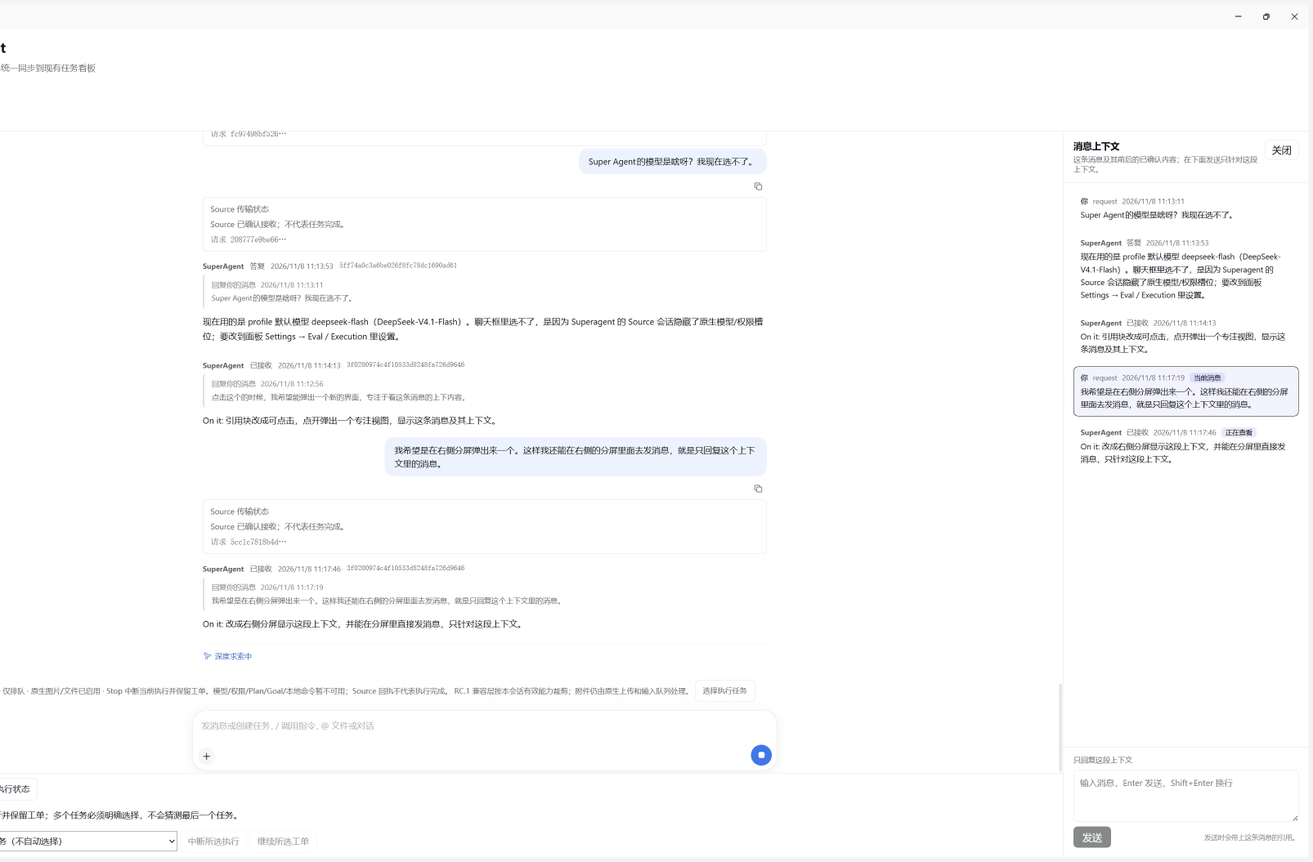
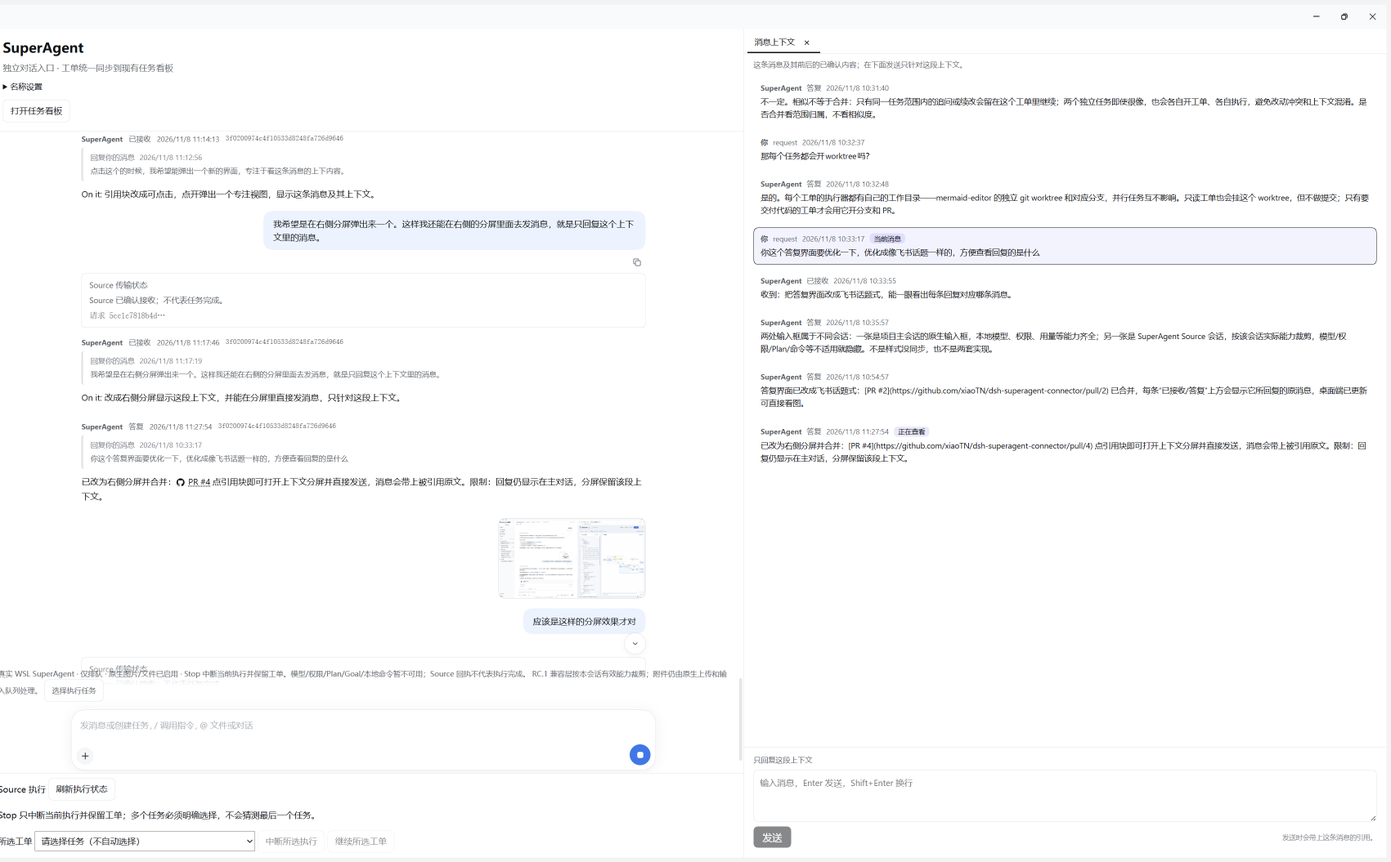
style: make the reply context a full-height resizable right split
Match the requested native right-column layout: the context pane now sits
at the SuperAgent panel level, spans the full content height beside the
header + conversation, has a sidebar-style tab strip and a draggable
(left-edge) and keyboard-resizable divider. The previous narrow in-panel
column is replaced.

Still an in-panel split: the DSH dockable right sidebar is bound to the
selected Session and cannot host the Source conversation's context while
the custom SuperAgent main panel is shown.

diff --git a/src/client.js b/src/client.js
@@ -63,7 +63,7 @@ window.__ModuleLoader__.load({
       var stopped = false;
       return function () { if (stopped) return; stopped = true; if (--identityOwners === 0) { identityStop(); identityStop = null; } };
     }
-    var shellCss = '.sab-panel{display:flex;flex-direction:column;overflow:hidden}.sab-shellhead{padding:14px 24px;border-bottom:1px solid var(--dsw-alias-border-l2,#dbe3ee);flex:none}.sab-shellhead h1{font-size:22px}.sab-pane{flex:1;min-height:0;display:flex}.sab-chathelp{font-size:12px;color:var(--dsw-alias-label-secondary,#64748b)}';
+    var shellCss = '.sab-panel{display:flex;flex-direction:column;overflow:hidden}.sab-panel-row{flex:1;min-height:0;display:flex;width:100%}.sab-panel-main{flex:1;min-width:0;min-height:0;display:flex;flex-direction:column}.sab-shellhead{padding:14px 24px;border-bottom:1px solid var(--dsw-alias-border-l2,#dbe3ee);flex:none}.sab-shellhead h1{font-size:22px}.sab-pane{flex:1;min-height:0;display:flex}.sab-chathelp{font-size:12px;color:var(--dsw-alias-label-secondary,#64748b)}';
     var nameCss = '.sab-name-settings{margin-top:10px;font-size:13px}.sab-name-settings summary{cursor:pointer;width:fit-content}.sab-name-settings form{display:flex;flex-direction:column;gap:8px;max-width:550px;padding-top:8px}.sab-name-settings label{display:flex;align-items:center;gap:8px;flex-wrap:wrap}.sab-name-settings input{min-width:0;flex:1;border:1px solid var(--dsw-alias-border-l2,#dbe3ee);border-radius:8px;padding:7px 10px;background:var(--dsw-alias-bg-base,#fff);color:inherit;font:inherit}.sab-name-settings input:focus-visible{outline:2px solid #6366f1;outline-offset:2px}';
     var css = '.sab{height:100%;min-height:0;box-sizing:border-box;background:var(--dsw-alias-bg-base,#fff);color:var(--dsw-alias-label-primary,#172033)}.sab *{box-sizing:border-box}.sab-shellhead,.sab-executions,.sab-native-notice{font:14px/1.5 system-ui,sans-serif}.sab-shellhead h1{margin:0 0 6px}.sab-sub,.sab-muted{color:var(--dsw-alias-label-secondary,#64748b)}.sab-shellhead button,.sab-executions button,.sab-native-notice button,.sab-native>.sab-notice button{font:inherit;color:inherit;border:1px solid var(--dsw-alias-border-l2,#dbe3ee);background:var(--dsw-alias-bg-base,#fff);border-radius:9px;min-height:36px;padding:7px 12px;cursor:pointer}.sab-shellhead button:focus-visible,.sab-executions button:focus-visible{outline:2px solid #6366f1;outline-offset:2px}.sab-notice{padding:13px 16px;border-radius:10px;background:rgba(99,102,241,.08)}.sab-error{background:rgba(239,68,68,.1)}';
 
@@ -135,8 +135,8 @@ window.__ModuleLoader__.load({
     var HISTORY_UNDO='button[aria-label="撤回"][title="整段回退：文件与对话一并回到该消息之前"]';
     var HISTORY_EDIT='button[aria-label="编辑"][title="编辑并重发：就地改完再发出去（新建会话，不动项目文件）"]';
     var HISTORY_ACTIONS=HISTORY_UNDO+','+HISTORY_EDIT;
-    var nativeCss = sourceScope+' [data-slot="conversation.input.model"],'+sourceScope+' [data-slot="conversation.input.permission"],'+sourceScope+' [data-slot="conversation.input.plan"],'+sourceScope+' [data-slot="conversation.input.activity"],'+sourceScope+' [data-slot="conversation.input.left"],'+sourceScope+' [data-slot="conversation.input.right"],'+sourceScope+' [data-slot="conversation.input.overlay"],'+sourceScope+':not([data-superagent-attachments="true"]) [data-slot="conversation.input.attachments"],'+sourceScope+':not([data-superagent-attachments="true"]) [data-composer-card] button[aria-haspopup],'+sourceScope+' [data-composer-dock]{display:none!important}.sab-native,.sab-native-frame{flex:1;min-height:0;display:flex;flex-direction:column;width:100%}.sab-native-frame{flex-direction:row}.sab-native-main{flex:1;min-width:0;min-height:0;display:flex;flex-direction:column}.sab-native [data-conversation-content]{flex:1;min-height:0}[data-superagent-native="true"] [data-slot="conversation.session.header"],[data-superagent-native="true"] [data-slot="conversation.session.header.actions"],[data-superagent-native="true"] [data-slot="conversation.session.header.utilities"],[data-superagent-native="true"] [data-slot="conversation.session.header.corner"]{display:none!important}.sab-native-notice{padding:8px 16px;font-size:12px;color:var(--dsw-alias-label-secondary,#64748b)}.sab-source-node{padding:12px 0;overflow-wrap:anywhere}.sab-source-content>:first-child{font-size:inherit!important;line-height:inherit!important;color:inherit!important}.sab-source-meta{display:flex;gap:10px;flex-wrap:wrap;font-size:12px;color:var(--dsw-alias-label-secondary,#64748b);margin-bottom:6px}.sab-executions{padding:8px 16px;flex:none;max-height:40%;overflow:auto;border-top:1px solid var(--dsw-alias-border-l2,#ddd)}.sab-executions button:disabled{opacity:.5;cursor:not-allowed}.sab-executions [data-superagent-trace] pre{white-space:pre-wrap;overflow-wrap:anywhere;max-height:240px;overflow:auto}.sab-executions select{font:inherit;color:inherit;background:var(--dsw-alias-bg-base,#fff);padding:6px;max-width:100%}';
-    nativeCss+=sourceScope+' '+HISTORY_UNDO+','+sourceScope+' '+HISTORY_EDIT+'{display:none!important}.sab-transport-status{font-size:var(--dsh-content-font-size-secondary,13px);line-height:1.6;color:var(--dsw-alias-label-secondary,#64748b);padding:8px 12px;border:1px solid var(--dsw-alias-border-l2,#dbe3ee);border-radius:8px}.sab-transport-status p{margin:4px 0}.sab-transport-uncertain{background:rgba(245,158,11,.08)}.sab-source-quote{display:block;width:100%;margin:0 0 8px;padding:7px 10px 7px 12px;border:0;border-left:3px solid var(--dsw-alias-border-l3,#cbd5e1);border-radius:6px;background:var(--dsw-alias-bg-layer-2,#f5f6f8);font:inherit;font-size:12px;line-height:1.65;text-align:left;color:inherit;cursor:pointer;overflow-wrap:anywhere}.sab-source-quote:hover{background:var(--dsw-alias-interactive-bg-hover,#eef1f5)}.sab-source-quote:focus-visible{outline:2px solid var(--dsw-alias-brand-primary,#4f46e5);outline-offset:2px}.sab-source-quote-label{display:flex;align-items:center;gap:8px;color:var(--dsw-alias-label-tertiary,#94a3b8);margin-bottom:2px}.sab-source-quote-text{display:-webkit-box;-webkit-line-clamp:3;-webkit-box-orient:vertical;overflow:hidden;color:var(--dsw-alias-label-secondary,#64748b)}.sab-context-pane{width:min(400px,42%);flex:none;min-height:0;display:flex;flex-direction:column;border-left:1px solid var(--dsw-alias-border-l2,#dbe3ee);background:var(--dsw-alias-bg-base,#fff);color:var(--dsw-alias-label-primary,#172033)}.sab-context-head{flex:none;display:flex;align-items:flex-start;justify-content:space-between;gap:12px;padding:14px 16px;border-bottom:1px solid var(--dsw-alias-border-l2,#dbe3ee)}.sab-context-head h2{margin:0;font-size:15px}.sab-context-head p{margin:4px 0 0;font-size:12px;color:var(--dsw-alias-label-secondary,#64748b)}.sab-context-head button{font:inherit;color:inherit;border:1px solid var(--dsw-alias-border-l2,#dbe3ee);background:var(--dsw-alias-bg-base,#fff);border-radius:9px;min-height:32px;padding:5px 11px;cursor:pointer;flex:none}.sab-context-list{flex:1;min-height:0;overflow:auto;padding:12px 16px;display:flex;flex-direction:column;gap:8px}.sab-context-row{border:1px solid transparent;border-radius:10px;padding:9px 11px;background:var(--dsw-alias-bg-layer-2,#f5f6f8)}.sab-context-row[data-current="true"]{border-color:var(--dsw-alias-brand-primary,#4f46e5);background:rgba(99,102,241,.08)}.sab-context-row .sab-quote-meta{display:flex;gap:8px;flex-wrap:wrap;align-items:center;font-size:12px;color:var(--dsw-alias-label-secondary,#64748b);margin-bottom:4px}.sab-quote-tag{font-size:11px;padding:1px 7px;border-radius:999px;background:rgba(79,70,229,.12);color:var(--dsw-alias-brand-primary,#4f46e5)}.sab-quote-body{white-space:pre-wrap;overflow-wrap:anywhere;font-size:13px;line-height:1.6}.sab-context-compose{flex:none;border-top:1px solid var(--dsw-alias-border-l2,#dbe3ee);padding:12px 16px 16px;display:flex;flex-direction:column;gap:8px}.sab-context-label{font-size:12px;color:var(--dsw-alias-label-secondary,#64748b)}.sab-context-compose textarea{width:100%;box-sizing:border-box;resize:vertical;min-height:72px;max-height:220px;font:inherit;font-size:14px;line-height:1.55;padding:9px 10px;border:1px solid var(--dsw-alias-border-l2,#dbe3ee);border-radius:9px;background:var(--dsw-alias-bg-base,#fff);color:inherit}.sab-context-compose textarea:focus-visible{outline:2px solid var(--dsw-alias-brand-primary,#4f46e5);outline-offset:2px}.sab-context-actions{display:flex;align-items:center;justify-content:space-between;gap:10px}.sab-context-actions button{font:inherit;color:#fff;background:var(--dsw-alias-brand-primary,#4f46e5);border:1px solid transparent;border-radius:9px;min-height:34px;padding:6px 14px;cursor:pointer}.sab-context-actions button:disabled{opacity:.5;cursor:not-allowed}.sab-context-hint{font-size:11px;color:var(--dsw-alias-label-tertiary,#94a3b8)}.sab-context-compose [role="status"],.sab-context-compose [role="alert"]{margin:0;font-size:12px}.sab-context-compose [role="alert"]{color:#dc2626}';
+    var nativeCss = sourceScope+' [data-slot="conversation.input.model"],'+sourceScope+' [data-slot="conversation.input.permission"],'+sourceScope+' [data-slot="conversation.input.plan"],'+sourceScope+' [data-slot="conversation.input.activity"],'+sourceScope+' [data-slot="conversation.input.left"],'+sourceScope+' [data-slot="conversation.input.right"],'+sourceScope+' [data-slot="conversation.input.overlay"],'+sourceScope+':not([data-superagent-attachments="true"]) [data-slot="conversation.input.attachments"],'+sourceScope+':not([data-superagent-attachments="true"]) [data-composer-card] button[aria-haspopup],'+sourceScope+' [data-composer-dock]{display:none!important}.sab-native,.sab-native-frame{flex:1;min-height:0;display:flex;flex-direction:column;width:100%}.sab-native [data-conversation-content]{flex:1;min-height:0}[data-superagent-native="true"] [data-slot="conversation.session.header"],[data-superagent-native="true"] [data-slot="conversation.session.header.actions"],[data-superagent-native="true"] [data-slot="conversation.session.header.utilities"],[data-superagent-native="true"] [data-slot="conversation.session.header.corner"]{display:none!important}.sab-native-notice{padding:8px 16px;font-size:12px;color:var(--dsw-alias-label-secondary,#64748b)}.sab-source-node{padding:12px 0;overflow-wrap:anywhere}.sab-source-content>:first-child{font-size:inherit!important;line-height:inherit!important;color:inherit!important}.sab-source-meta{display:flex;gap:10px;flex-wrap:wrap;font-size:12px;color:var(--dsw-alias-label-secondary,#64748b);margin-bottom:6px}.sab-executions{padding:8px 16px;flex:none;max-height:40%;overflow:auto;border-top:1px solid var(--dsw-alias-border-l2,#ddd)}.sab-executions button:disabled{opacity:.5;cursor:not-allowed}.sab-executions [data-superagent-trace] pre{white-space:pre-wrap;overflow-wrap:anywhere;max-height:240px;overflow:auto}.sab-executions select{font:inherit;color:inherit;background:var(--dsw-alias-bg-base,#fff);padding:6px;max-width:100%}';
+    nativeCss+=sourceScope+' '+HISTORY_UNDO+','+sourceScope+' '+HISTORY_EDIT+'{display:none!important}.sab-transport-status{font-size:var(--dsh-content-font-size-secondary,13px);line-height:1.6;color:var(--dsw-alias-label-secondary,#64748b);padding:8px 12px;border:1px solid var(--dsw-alias-border-l2,#dbe3ee);border-radius:8px}.sab-transport-status p{margin:4px 0}.sab-transport-uncertain{background:rgba(245,158,11,.08)}.sab-source-quote{display:block;width:100%;margin:0 0 8px;padding:7px 10px 7px 12px;border:0;border-left:3px solid var(--dsw-alias-border-l3,#cbd5e1);border-radius:6px;background:var(--dsw-alias-bg-layer-2,#f5f6f8);font:inherit;font-size:12px;line-height:1.65;text-align:left;color:inherit;cursor:pointer;overflow-wrap:anywhere}.sab-source-quote:hover{background:var(--dsw-alias-interactive-bg-hover,#eef1f5)}.sab-source-quote:focus-visible{outline:2px solid var(--dsw-alias-brand-primary,#4f46e5);outline-offset:2px}.sab-source-quote-label{display:flex;align-items:center;gap:8px;color:var(--dsw-alias-label-tertiary,#94a3b8);margin-bottom:2px}.sab-source-quote-text{display:-webkit-box;-webkit-line-clamp:3;-webkit-box-orient:vertical;overflow:hidden;color:var(--dsw-alias-label-secondary,#64748b)}.sab-context-pane{position:relative;width:46%;min-width:320px;max-width:70%;flex:none;min-height:0;display:flex;flex-direction:column;border-left:1px solid var(--dsw-alias-border-l2,#dbe3ee);background:var(--dsw-alias-bg-base,#fff);color:var(--dsw-alias-label-primary,#172033)}.sab-context-resizer{position:absolute;left:-3px;top:0;bottom:0;width:7px;z-index:2;cursor:col-resize;outline:none}.sab-context-resizer:hover,.sab-context-resizer:focus-visible{background:rgba(99,102,241,.28)}.sab-context-tabs{flex:none;height:40px;display:flex;align-items:stretch;padding:0 6px;border-bottom:1px solid var(--dsw-alias-border-l2,#dbe3ee);background:var(--dsw-alias-bg-layer-1,#f7f8fa)}.sab-context-tab{align-self:flex-end;display:flex;align-items:center;gap:10px;height:36px;padding:0 12px;font-size:13px;color:var(--dsw-alias-label-primary,#172033);background:var(--dsw-alias-bg-base,#fff);border-bottom:2px solid var(--dsw-alias-brand-primary,#4f46e5);border-radius:8px 8px 0 0}.sab-context-tab button{border:0;background:transparent;color:inherit;font-size:17px;line-height:1;padding:2px 4px;border-radius:5px;cursor:pointer}.sab-context-tab button:hover{background:var(--dsw-alias-interactive-bg-hover,#eef1f5)}.sab-context-sub{margin:0;padding:10px 16px 0;font-size:12px;color:var(--dsw-alias-label-secondary,#64748b)}.sab-context-list{flex:1;min-height:0;overflow:auto;padding:12px 16px;display:flex;flex-direction:column;gap:8px}.sab-context-row{border:1px solid transparent;border-radius:10px;padding:9px 11px;background:var(--dsw-alias-bg-layer-2,#f5f6f8)}.sab-context-row[data-current="true"]{border-color:var(--dsw-alias-brand-primary,#4f46e5);background:rgba(99,102,241,.08)}.sab-context-row .sab-quote-meta{display:flex;gap:8px;flex-wrap:wrap;align-items:center;font-size:12px;color:var(--dsw-alias-label-secondary,#64748b);margin-bottom:4px}.sab-quote-tag{font-size:11px;padding:1px 7px;border-radius:999px;background:rgba(79,70,229,.12);color:var(--dsw-alias-brand-primary,#4f46e5)}.sab-quote-body{white-space:pre-wrap;overflow-wrap:anywhere;font-size:13px;line-height:1.6}.sab-context-compose{flex:none;border-top:1px solid var(--dsw-alias-border-l2,#dbe3ee);padding:12px 16px 16px;display:flex;flex-direction:column;gap:8px}.sab-context-label{font-size:12px;color:var(--dsw-alias-label-secondary,#64748b)}.sab-context-compose textarea{width:100%;box-sizing:border-box;resize:vertical;min-height:72px;max-height:220px;font:inherit;font-size:14px;line-height:1.55;padding:9px 10px;border:1px solid var(--dsw-alias-border-l2,#dbe3ee);border-radius:9px;background:var(--dsw-alias-bg-base,#fff);color:inherit}.sab-context-compose textarea:focus-visible{outline:2px solid var(--dsw-alias-brand-primary,#4f46e5);outline-offset:2px}.sab-context-actions{display:flex;align-items:center;justify-content:space-between;gap:10px}.sab-context-actions button{font:inherit;color:#fff;background:var(--dsw-alias-brand-primary,#4f46e5);border:1px solid transparent;border-radius:9px;min-height:34px;padding:6px 14px;cursor:pointer}.sab-context-actions button:disabled{opacity:.5;cursor:not-allowed}.sab-context-hint{font-size:11px;color:var(--dsw-alias-label-tertiary,#94a3b8)}.sab-context-compose [role="status"],.sab-context-compose [role="alert"]{margin:0;font-size:12px}.sab-context-compose [role="alert"]{color:#dc2626}';
     function sourceSession(id) { return typeof id === 'string' && id.indexOf(SOURCE_PREFIX) === 0; }
     // Only Host native endpoints publish effective capabilities, never raw Source flags or upload receipts.
     var nativeCapabilities=new Map(), capabilityListeners=new Set(), NO_CAPABILITIES=Object.freeze({attachments:false});
@@ -261,7 +261,7 @@ window.__ModuleLoader__.load({
     }
     // The focused context lives beside the native conversation, not over it, so the operator can
     // read the quoted message and send a reply scoped to the same context from that pane.
-    var focusedContext={target:null,origin:null},contextListeners=new Set();
+    var focusedContext={target:null,origin:null},contextListeners=new Set(),activeSource={context:null,sessionId:null};
     function publishFocus(value){focusedContext=value;contextListeners.forEach(function(listener){listener();});}
     function focusContext(target,origin){if(target)publishFocus({target:target,origin:origin});}
     function closeContext(){publishFocus({target:null,origin:null});}
@@ -272,8 +272,25 @@ window.__ModuleLoader__.load({
     }
     function ContextPane(props){
       var target=props.target,origin=props.origin,rows=contextRows(target,origin);
-      var currentRow=React.useRef(null);
+      var currentRow=React.useRef(null),pane=React.useRef(null),resizing=React.useRef(null);
+      var sizing=React.useState(null),width=sizing[0],setWidth=sizing[1];
       React.useEffect(function(){if(currentRow.current&&currentRow.current.scrollIntoView)currentRow.current.scrollIntoView({block:'center'});},[target.id,target.role]);
+      function startResize(event){
+        if(!pane.current||!pane.current.getBoundingClientRect||!document.addEventListener)return;
+        event.preventDefault();
+        var rect=pane.current.getBoundingClientRect();
+        var frame=pane.current.parentElement,frameRect=frame&&frame.getBoundingClientRect?frame.getBoundingClientRect():null;
+        resizing.current={startX:event.clientX||0,startWidth:rect.width,min:320,max:frameRect?Math.max(420,frameRect.width*0.7):rect.width*2};
+        function move(ev){var drag=resizing.current;if(!drag)return;var next=drag.startWidth-((ev.clientX||0)-drag.startX);setWidth(Math.round(Math.min(drag.max,Math.max(drag.min,next))));}
+        function stop(){resizing.current=null;document.removeEventListener('pointermove',move);document.removeEventListener('pointerup',stop);}
+        document.addEventListener('pointermove',move);document.addEventListener('pointerup',stop);
+      }
+      function resizeKey(event){
+        if(event.key!=='ArrowLeft'&&event.key!=='ArrowRight')return;
+        event.preventDefault();
+        var current=width||(pane.current&&pane.current.getBoundingClientRect?pane.current.getBoundingClientRect().width:460);
+        setWidth(Math.round(Math.min(1600,Math.max(320,current+(event.key==='ArrowLeft'?40:-40)))));
+      }
       var draft=React.useState(''),text=draft[0],setText=draft[1];
       var status=React.useState(''),notice=status[0],setNotice=status[1];
       var errors=React.useState(''),error=errors[0],setError=errors[1];
@@ -288,9 +305,12 @@ window.__ModuleLoader__.load({
         input.submit('queue','click');
         setText('');setNotice('已发送，只针对这段上下文。');setError('');
       }
-      return h('aside',{className:'sab-context-pane','aria-label':'消息上下文'},
-        h('header',{className:'sab-context-head'},h('div',null,h('h2',null,'消息上下文'),h('p',null,'这条消息及其前后的已确认内容；在下面发送只针对这段上下文。')),
-          h('button',{type:'button','aria-label':'关闭消息上下文',onClick:props.onClose},'关闭')),
+      return h('aside',{className:'sab-context-pane','aria-label':'消息上下文',ref:pane,style:width?{width:width+'px'}:undefined},
+        h('div',{className:'sab-context-resizer',role:'separator','aria-orientation':'vertical','aria-label':'调整上下文分屏宽度',tabIndex:0,onPointerDown:startResize,onKeyDown:resizeKey}),
+        h('div',{className:'sab-context-tabs',role:'tablist'},
+          h('div',{className:'sab-context-tab',role:'tab','aria-selected':'true'},h('span',null,'消息上下文'),
+            h('button',{type:'button','aria-label':'关闭消息上下文',title:'关闭',onClick:props.onClose},'×'))),
+        h('p',{className:'sab-context-sub'},'这条消息及其前后的已确认内容；在下面发送只针对这段上下文。'),
         h('div',{className:'sab-context-list'},rows.map(function(row){
           return h('article',{key:row.entry.role+':'+row.entry.id+':'+row.entry.seq,className:'sab-context-row','data-superagent-context-row':true,'data-current':row.current?'true':undefined,'data-reply':row.reply?'true':undefined,ref:row.current?currentRow:undefined},
             h('div',{className:'sab-quote-meta'},h('strong',null,row.entry.role==='user'?'你':agentName()),h('span',null,sourceKind(row.entry)),h('span',null,when(row.entry.at)),
@@ -604,12 +624,10 @@ window.__ModuleLoader__.load({
         notice && h('p',{role:'status'},notice),error && h('p',{role:'alert'},error));
     }
     function nativeBody(props) {
-      var focus=useContextFocus();
+      activeSource={context:props.context,sessionId:props.sessionId};
       return h('div',{className:'sab-native-frame'},
-        h('div',{className:'sab-native-main'},
-          props.renderFactorySlot('conversation.content',{variant:'embedded',phase:'active',hero:false},{fallback:h('div',{role:'alert',className:'sab-notice sab-error'},'原生 Conversation Factory 不可用；不会改用普通 Agent。')}),
-          h(Executions,{context:props.context,sessionId:props.sessionId})),
-        focus.target && h(ContextPane,{context:props.context,sessionId:props.sessionId,target:focus.target,origin:focus.origin,onClose:closeContext}));
+        props.renderFactorySlot('conversation.content',{variant:'embedded',phase:'active',hero:false},{fallback:h('div',{role:'alert',className:'sab-notice sab-error'},'原生 Conversation Factory 不可用；不会改用普通 Agent。')}),
+        h(Executions,{context:props.context,sessionId:props.sessionId}));
     }
     function Chat(props) {
       var state=React.useState({reference:null,error:'',loading:true}), value=state[0], setValue=state[1];
@@ -692,17 +710,21 @@ window.__ModuleLoader__.load({
     }
     function Superagent(props) {
       useIdentity();
+      var focus=useContextFocus();
       var workspace=props.useWorkspaces(function(value){return value;}), sessions=props.useSessions(function(value){return value;});
       var mainIds=Object.keys(sessions.byId).filter(function(id){return (sessions.byId[id].retainedBy.mainView || 0)>0;});
       var selectedWorkspace=mainIds.length===1 ? workspace.items.find(function(item){return item.sessionIds.includes(mainIds[0]);}) : undefined;
       if(!selectedWorkspace && workspace.items.length===1)selectedWorkspace=workspace.items[0];
       var name = agentName();
       return h('section',{className:'sab sab-panel','aria-label':name},h('style',null,css + shellCss + nameCss + nativeCss),
-        h('header',{className:'sab-shellhead'},h('h1',null,name),
-          h('div',{className:'sab-sub'},'独立对话入口 · 工单统一同步到现有任务看板'),
-          h(NameSettings),
-          h('button',{type:'button',onClick:function(){props.context.layout.selectPanel('task-board');},style:{marginTop:'12px'}},'打开任务看板')),
-        h('div',{className:'sab-pane'},h(Chat,{context:props.context,SessionProvider:props.SessionProvider,renderSlot:props.renderSlot,workspaceId:selectedWorkspace && selectedWorkspace.workspaceId,workspaceReady:workspace.phase==='ready' && sessions.phase==='ready'})));
+        h('div',{className:'sab-panel-row'},
+          h('div',{className:'sab-panel-main'},
+            h('header',{className:'sab-shellhead'},h('h1',null,name),
+              h('div',{className:'sab-sub'},'独立对话入口 · 工单统一同步到现有任务看板'),
+              h(NameSettings),
+              h('button',{type:'button',onClick:function(){props.context.layout.selectPanel('task-board');},style:{marginTop:'12px'}},'打开任务看板')),
+            h('div',{className:'sab-pane'},h(Chat,{context:props.context,SessionProvider:props.SessionProvider,renderSlot:props.renderSlot,workspaceId:selectedWorkspace && selectedWorkspace.workspaceId,workspaceReady:workspace.phase==='ready' && sessions.phase==='ready'}))),
+          focus.target && activeSource.sessionId && h(ContextPane,{context:activeSource.context,sessionId:activeSource.sessionId,target:focus.target,origin:focus.origin,onClose:closeContext})));
     }
     function data(task) { return task && task.integrations && task.integrations.superagent; }
     function Decoration(props) {

diff --git a/README.en.md b/README.en.md
@@ -34,7 +34,7 @@ The Source conversation journal is the authority for confirmed history and is no
 
 ### Replies and topics
 
-`acknowledgement`, `reply` and ticket-level results all render a Feishu-topic-style quote: accent bar, original text and time. Clicking the quote opens a context pane to the right of the conversation: the message and its confirmed neighbours, plus a composer scoped to that context. Sending prefixes the quoted message so the Source receives it with the message (the current Source has no separate thread field), reusing the native input/outbox path without creating a local ticket or rewriting history. A direct answer resolves its target from the reply event's deterministic id against the confirmed Source history; a ticket-level result (such as the final completion notice) has no such id, so it quotes the human message already bound to the same ticket (the ticket's opening message when available) in the same visual style. A late answer after several messages is never attributed by position; an old or unresolvable id deliberately renders no quote instead of guessing. Resolution reads confirmed history only: no extra request, no Source rewrite.
+`acknowledgement`, `reply` and ticket-level results all render a Feishu-topic-style quote: accent bar, original text and time. Clicking the quote opens a right-hand context pane: a full-height column with a sidebar-style tab strip that can be resized from its left edge, showing the message and its confirmed neighbours plus a composer scoped to that context. Sending prefixes the quoted message so the Source receives it with the message (the current Source has no separate thread field), reusing the native input/outbox path without creating a local ticket or rewriting history. A direct answer resolves its target from the reply event's deterministic id against the confirmed Source history; a ticket-level result (such as the final completion notice) has no such id, so it quotes the human message already bound to the same ticket (the ticket's opening message when available) in the same visual style. A late answer after several messages is never attributed by position; an old or unresolvable id deliberately renders no quote instead of guessing. Resolution reads confirmed history only: no extra request, no Source rewrite.
 
 ### Real images and files
 

diff --git a/docs/release-0.4.3.md b/docs/release-0.4.3.md
@@ -2,7 +2,7 @@
 
 - Draw a Feishu-topic-style quote above every Source `acknowledgement`/`reply`: the exact human message it answers plus that message's time. A ticket-level result (for example the final completion notice, whose id names the ticket rather than a message) quotes the human message already bound to that ticket, so the same topic style covers the closing reply too. Replies stay attributable when more messages arrive before the answer, instead of appearing as unattached cards.
 - Resolve a direct answer's quoted target from the reply event's deterministic outbox id against the confirmed `superagent/source` history. A ticket-level result has no message id, so it quotes the message already bound to the same ticket (the ticket's opening message when loaded). Do not guess by position: an old, redacted or otherwise unresolvable id renders without a quote rather than quoting the wrong message.
-- Make the quote a control: clicking it opens a right-side context pane beside the native conversation with the message, its confirmed neighbours and the reply that opened it. The pane has a composer; sending from it prefixes the quoted message so the WSL SuperAgent receives the message with its context, reusing the native input/outbox path. The pane is read-only history plus that composer; no local ticket or history rewrite.
+- Make the quote a control: clicking it opens a full-height, tab-strip right column beside the native conversation (resizable from its left edge) with the message, its confirmed neighbours and the reply that opened it. The pane has a composer; sending from it prefixes the quoted message so the WSL SuperAgent receives the message with its context, reusing the native input/outbox path. The pane is read-only history plus that composer; no local ticket or history rewrite.
 - Keep the quote as presentation metadata above the native Markdown body. Markdown rendering, attachments, transport status, Source intake and authorization are unchanged; history is only read, never rewritten.
 
 ## Verification
